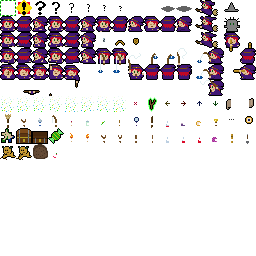
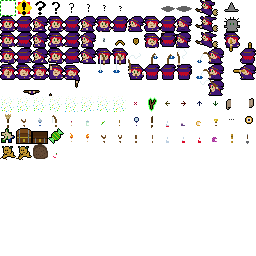
new face when bumping a wall, mostly to aid dark rooms

Changed region(s): [[0.5625, 0.125, 0.75, 0.1875]]

diff --git a/src/game/hero/hero_motion.c b/src/game/hero/hero_motion.c
@@ -107,10 +107,10 @@ static void hero_fudge_horz(struct sprite *sprite,double elapsed) {
   if (dx>FUDGE_TOLERANCE) return;
   double target=whole+0.5;
   if (dx<0.0) {
-    sprite_move(sprite,-FUDGE_SPEED*elapsed,0.0);
+    if (sprite_move(sprite,-FUDGE_SPEED*elapsed,0.0)) SPRITE->blocked=0;
     if (sprite->x<target) sprite->x=target;
   } else if (dx>0.0) {
-    sprite_move(sprite,FUDGE_SPEED*elapsed,0.0);
+    if (sprite_move(sprite,FUDGE_SPEED*elapsed,0.0)) SPRITE->blocked=0;
     if (sprite->x>target) sprite->x=target;
   }
 }
@@ -123,10 +123,10 @@ static void hero_fudge_vert(struct sprite *sprite,double elapsed) {
   if (dy>FUDGE_TOLERANCE) return;
   double target=whole+0.5;
   if (dy<0.0) {
-    sprite_move(sprite,0.0,-FUDGE_SPEED*elapsed);
+    if (sprite_move(sprite,0.0,-FUDGE_SPEED*elapsed)) SPRITE->blocked=0;
     if (sprite->y<target) sprite->y=target;
   } else if (dy>0.0) {
-    sprite_move(sprite,0.0,FUDGE_SPEED*elapsed);
+    if (sprite_move(sprite,0.0,FUDGE_SPEED*elapsed)) SPRITE->blocked=0;
     if (sprite->y>target) sprite->y=target;
   }
 }
@@ -135,6 +135,7 @@ static void hero_fudge_vert(struct sprite *sprite,double elapsed) {
  */
  
 void hero_motion_update(struct sprite *sprite,double elapsed) {
+  SPRITE->blocked=0;
   hero_motion_update_input(sprite);
   if (!SPRITE->walking) return;
   
@@ -148,6 +149,7 @@ void hero_motion_update(struct sprite *sprite,double elapsed) {
     speed=12.0*elapsed;
   }
   if (!sprite_move(sprite,SPRITE->indx*speed,SPRITE->indy*speed)) {
+    SPRITE->blocked=1;
     // If she's trying to move cardinally, perform an off-axis correction.
     if (SPRITE->indx&&!SPRITE->indy) hero_fudge_vert(sprite,elapsed);
     else if (!SPRITE->indx&&SPRITE->indy) hero_fudge_horz(sprite,elapsed);

diff --git a/src/game/hero/hero_render.c b/src/game/hero/hero_render.c
@@ -347,10 +347,17 @@ void hero_render(struct sprite *sprite,int x,int y) {
     graf_tile(&g.graf,shx,shy,0x00,xform);
   }
   
+  /* Acquire the equipped item.
+   * If we're walking and blocked, nix it.
+   */
   uint8_t itemtileid=0;
-  const struct item_detail *detail=item_detail_for_equipped();
-  if (detail) {
-    itemtileid=detail->hand_tileid;
+  if (SPRITE->walking&&SPRITE->blocked) {
+    // Pretend there's no item.
+  } else {
+    const struct item_detail *detail=item_detail_for_equipped();
+    if (detail) {
+      itemtileid=detail->hand_tileid;
+    }
   }
   
   uint8_t tileid=sprite->tileid;
@@ -410,7 +417,12 @@ void hero_render(struct sprite *sprite,int x,int y) {
   }
   
   if (SPRITE->walking) {
-    switch (SPRITE->walkanimframe) {
+    if (SPRITE->blocked) {
+      if (SPRITE->facedx<0) { tileid=0x2b; xform=0; }
+      else if (SPRITE->facedx>0) { tileid=0x2b; xform=EGG_XFORM_XREV; }
+      else if (SPRITE->facedy<0) { tileid=0x2a; xform=0; }
+      else { tileid=0x29; xform=0; }
+    } else switch (SPRITE->walkanimframe) {
       case 1: tileid+=0x10; break;
       case 3: tileid+=0x20; break;
     }

diff --git a/src/game/hero/hero_internal.h b/src/game/hero/hero_internal.h
@@ -15,6 +15,7 @@ struct sprite_hero {
   int walking;
   double walkanimclock;
   int walkanimframe;
+  int blocked; // Relevant only when (walking); we're fully blocked.
   double potionclock; // Animating potion.
   int qx,qy,root; // Stays fresh passively while divining rod armed. Otherwise (-1,-1,0). Most POI interactions use feet. Shovel too.
   struct divining_alert {

diff --git a/README.md b/README.md
@@ -26,12 +26,11 @@ Requires [Egg](https://github.com/aksommerville/egg2) to build.
 - [ ] Tree stories. These don't go in regular inventory. Need a list of them somewhere in the pause modal, where you can replay.
 - [x] When multiple dialogue modals, there are multiple blotters. Can we have just one blotter, and magically put it at the right layer? (eg "Not enough gold" at a shop)
 - - While in there, pause also needs a blotter.
-- [ ] There's room for badges under the currency counters in the inventory vellum. Maybe for the flowers? Or keys, something like that.
 - [ ] `modal_story.c:story_render_overlay()`: Cache overlay texture.
 - [ ] Friendly UI for editing saved games. (non-public, obviously)
 - [ ] More spells. Not sure what...
 - [ ] Invalid spell, should we do a head-shake like in Full Moon?
-- [ ] Don't animate walking when bumping into a wall. Maybe a pushing face?
+- [x] Don't animate walking when bumping into a wall. Maybe a pushing face?
 - [ ] Should firepot be switchable?
 - [ ] Poke compass after you get the thing. Tricky...
 - [ ] Geographic and temporal variety in fish. See `game.c:game_choose_fish()`
@@ -58,6 +57,7 @@ Requires [Egg](https://github.com/aksommerville/egg2) to build.
 - [ ] Chopping: Start with the belt populated. Too much lead time as is.
 
 - For exploration some time in the uncertain future.
+- [ ] There's room for badges under the currency counters in the inventory vellum. Maybe for the flowers? Or keys, something like that.
 - [ ] Is it possible to reach inconsistent states by pausing while item in progress?
 - [ ] Spread barrels out. It's OK to cluster them near the knitter, but the cluster in Fractia right now is annoying.
 - [ ] Remove the fake French text, or even better, get it translated correctly.
